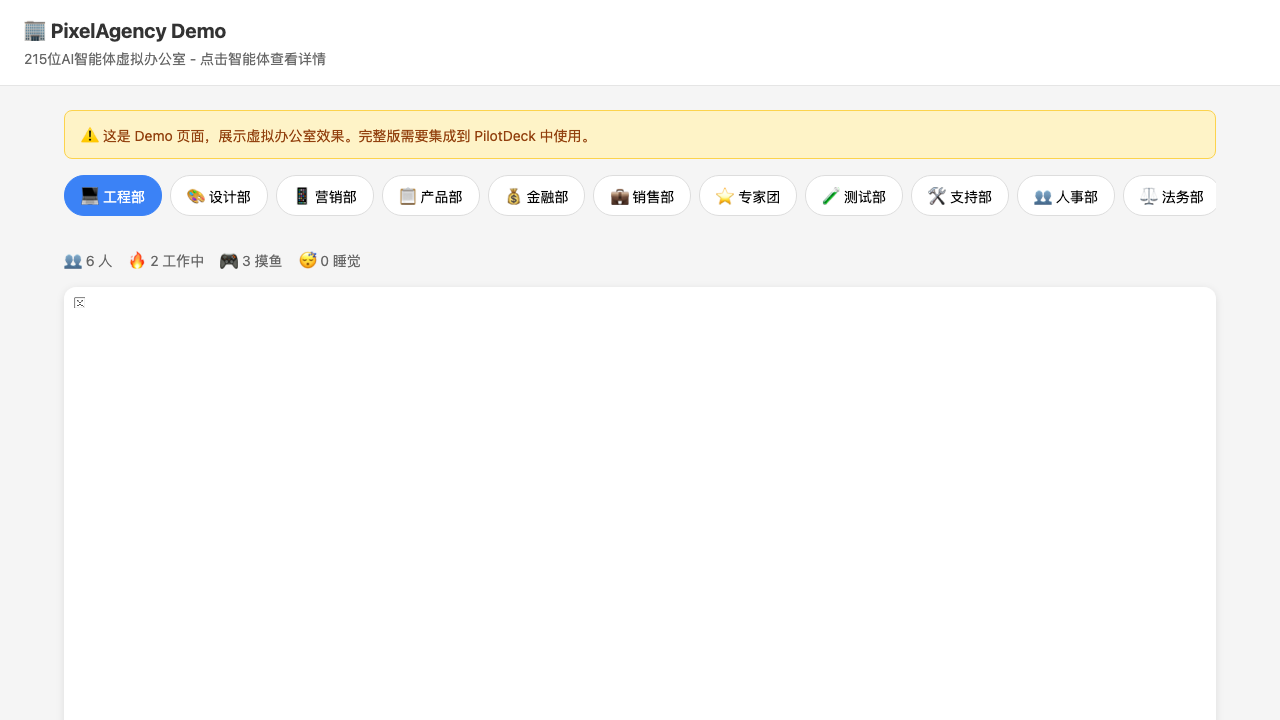
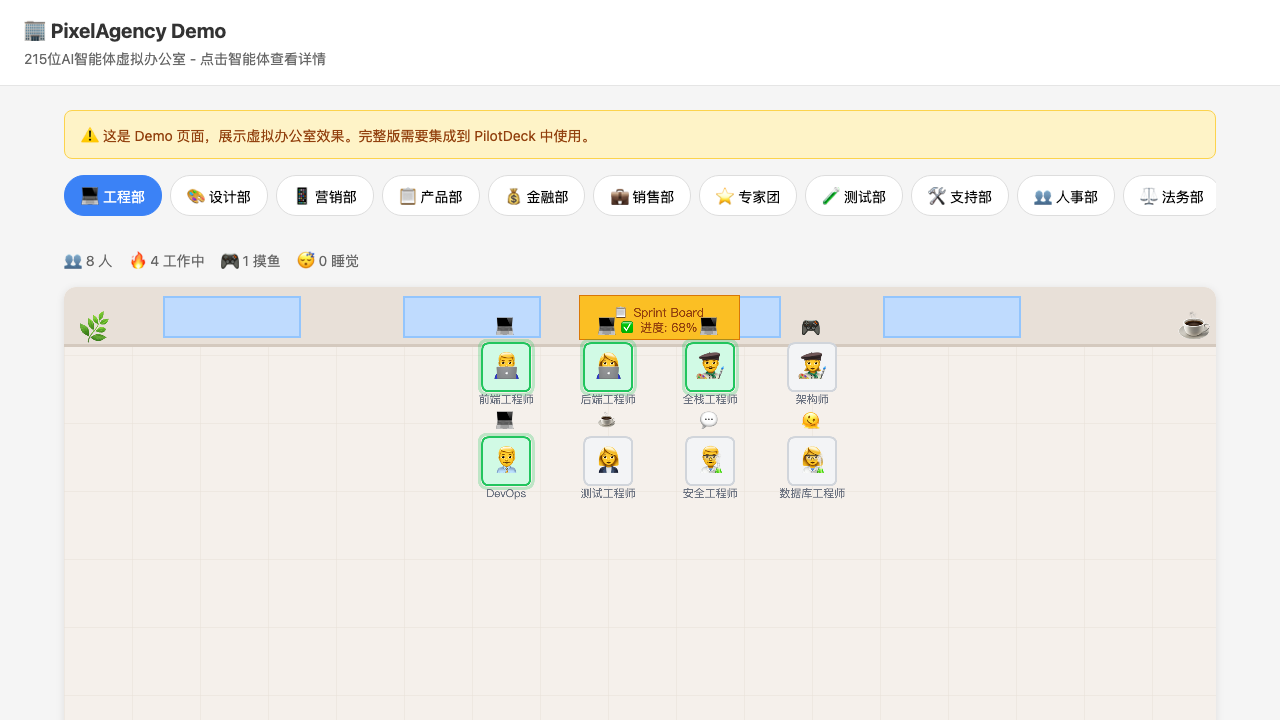
fix: 完善文档和 Demo 细节
- README 相关文档添加 ROADMAP、architecture、UPSTREAM、demo
- README 快速开始添加 Demo 启动说明
- ROADMAP 勾选已完成的 Demo 和截图项
- package.json 添加 serve devDependencies
- Demo 截图展示更多智能体状态

Changed region(s): [[0.0312, 0.3972, 0.9688, 0.7028], [0.0938, 0.3361, 0.2812, 0.3667]]

diff --git a/demo/index.html b/demo/index.html
@@ -219,29 +219,31 @@
       walking:  { label: '走动中', icon: '🚶', color: '#A855F7', duration: [2, 5] },
     };
 
-    // 模拟智能体数据
+    // 模拟智能体数据（带固定状态分布，便于截图展示）
     function generateAgents(dept, count) {
       const names = {
-        'engineering': ['前端工程师', '后端工程师', '全栈工程师', '架构师', 'DevOps工程师'],
-        'design': ['UI设计师', 'UX设计师', '视觉设计师', '动效设计师'],
-        'marketing': ['营销经理', '内容运营', 'SEO专员', '社媒运营'],
-        'product': ['产品经理', '需求分析师', '用户研究员'],
-        'finance': ['财务分析师', '会计', '审计师'],
-        'sales': ['销售经理', '大客户经理', '商务拓展'],
-        'specialized': ['技术顾问', 'AI专家', '安全专家'],
-        'testing': ['测试工程师', '自动化测试', '性能测试'],
-        'support': ['技术支持', '客服经理', '文档工程师'],
-        'hr': ['HR经理', '招聘专员', '培训专员'],
-        'legal': ['法务经理', '合规经理'],
-        'academic': ['研究员', '论文助手'],
-        'game-development': ['Unity工程师', '游戏策划', '游戏美术'],
-        'supply-chain': ['供应链经理', '采购经理'],
-        'project-management': ['项目经理', 'Scrum Master'],
-        'paid-media': ['投放经理', '优化师'],
-        'spatial-computing': ['VR工程师', 'AR工程师'],
+        'engineering': ['前端工程师', '后端工程师', '全栈工程师', '架构师', 'DevOps工程师', '测试工程师', '安全工程师', '数据库工程师', '运维工程师', 'AI工程师'],
+        'design': ['UI设计师', 'UX设计师', '视觉设计师', '动效设计师', '品牌设计师', '插画师', '3D设计师', '设计系统设计师'],
+        'marketing': ['营销经理', '内容运营', 'SEO专员', '社媒运营', '增长黑客', '品牌经理', '公关经理', '活动策划'],
+        'product': ['产品经理', '需求分析师', '用户研究员', '数据产品经理', 'AI产品经理'],
+        'finance': ['财务分析师', '会计', '审计师', '税务师', '投资分析师', '风控经理'],
+        'sales': ['销售经理', '大客户经理', '商务拓展', '客户成功经理', '销售运营'],
+        'specialized': ['技术顾问', 'AI专家', '安全专家', '区块链专家', '云架构师', '物联网专家'],
+        'testing': ['测试工程师', '自动化测试', '性能测试', '安全测试', '测试开发'],
+        'support': ['技术支持', '客服经理', '文档工程师', '培训讲师', '知识库经理'],
+        'hr': ['HR经理', '招聘专员', '培训专员', '薪酬专员', '绩效专员'],
+        'legal': ['法务经理', '合规经理', '知识产权经理', '合同经理'],
+        'academic': ['研究员', '论文助手', '数据分析助手', '学术翻译'],
+        'game-development': ['Unity工程师', '游戏策划', '游戏美术', '游戏音效', '游戏测试', '游戏运营'],
+        'supply-chain': ['供应链经理', '采购经理', '物流经理', '仓储经理'],
+        'project-management': ['项目经理', 'Scrum Master', '敏捷教练', 'PMO经理'],
+        'paid-media': ['投放经理', '优化师', '数据分析师', '创意策划'],
+        'spatial-computing': ['VR工程师', 'AR工程师', '3D建模师', '交互设计师'],
       };
-      const emojis = ['👨💻', '👩💻', '👨🎨', '👩🎨', '👨💼', '👩💼', '👨🔬', '👩🔬', '👨🏫', '👩🏫'];
+      const emojis = ['👨💻', '👩💻', '👨🎨', '👩🎨', '👨💼', '👩💼', '👨🔬', '👩🔬', '👨🏫', '👩🏫', '👨🔧', '👩🔧'];
       const deptNames = names[dept] || ['智能体'];
+      // 固定状态分布：前几个工作中，然后有打游戏、睡觉、喝咖啡等
+      const fixedBehaviors = ['working', 'working', 'working', 'gaming', 'sleeping', 'coffee', 'chatting', 'idle', 'walking', 'working'];
       const agents = [];
       for (let i = 0; i < count; i++) {
         agents.push({
@@ -250,7 +252,7 @@
           description: `这是${DEPT_LIST.find(d => d.key === dept)?.name || dept}的${deptNames[i % deptNames.length]}`,
           emoji: emojis[i % emojis.length],
           department: dept,
-          behavior: randomBehavior(),
+          behavior: fixedBehaviors[i % fixedBehaviors.length],
           x: 0, y: 0,
           walkTimer: Math.random() * 300,
           behaviorTimer: Math.random() * 200 + 100,

diff --git a/README.md b/README.md
@@ -130,6 +130,16 @@ npm run dev
 
 访问 `http://localhost:5174`，点击"虚拟办公室"标签即可看到效果。
 
+### 🎮 快速体验 Demo
+
+想直接看效果？运行 Demo：
+```bash
+npm install
+npm run demo
+```
+
+然后访问 http://localhost:8080，即可看到虚拟办公室 Demo。
+
 ## 💡 工作原理
 
 ```
@@ -181,6 +191,14 @@ const BEHAVIOR_WEIGHTS = [
 
 - [PRD.md](./PRD.md) — 产品需求文档
 - [secretary.md](./prompts/secretary.md) — LLM 秘书系统提示词
+- [ROADMAP.md](./ROADMAP.md) — 发展路线图
+- [docs/architecture.md](./docs/architecture.md) — 架构设计文档
+- [UPSTREAM.md](./UPSTREAM.md) — 上游来源与原创声明
+- [demo/index.html](./demo/index.html) — 可运行 Demo
+- [ROADMAP.md](./ROADMAP.md) — 发展路线图
+- [docs/architecture.md](./docs/architecture.md) — 架构设计文档
+- [UPSTREAM.md](./UPSTREAM.md) — 上游来源与原创声明
+- [demo/index.html](./demo/index.html) — 可运行 Demo
 
 ## 🤝 贡献
 

diff --git a/ROADMAP.md b/ROADMAP.md
@@ -20,8 +20,8 @@ PixelAgency 的发展路线图。
 - [ ] WebSocket 实时状态同步（[#1](https://github.com/feifeida57/PixelAgency/issues/1)）
 - [ ] 更丰富的行为动画（[#2](https://github.com/feifeida57/PixelAgency/issues/2)）
 - [ ] 智能体互动系统（[#3](https://github.com/feifeida57/PixelAgency/issues/3)）
-- [ ] 可独立运行的 Demo 页面
-- [ ] 截图/GIF 展示
+- [x] 可独立运行的 Demo 页面
+- [x] 截图/GIF 展示
 
 ## 📋 v0.2（计划中）
 